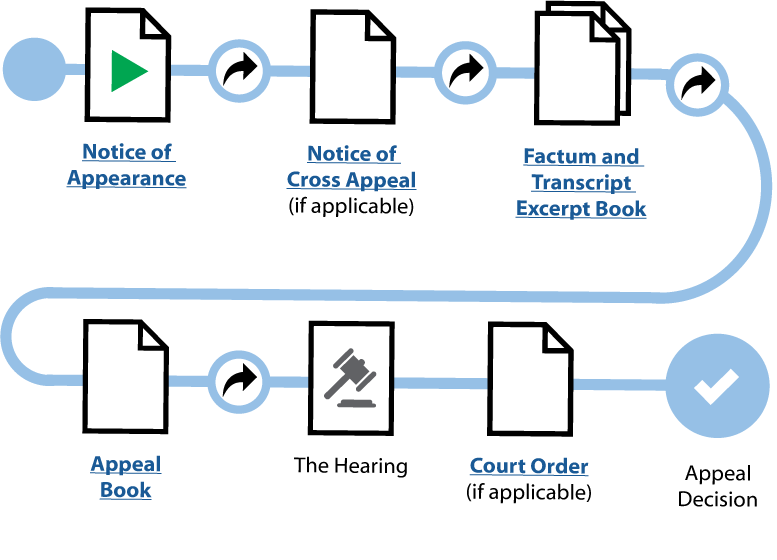
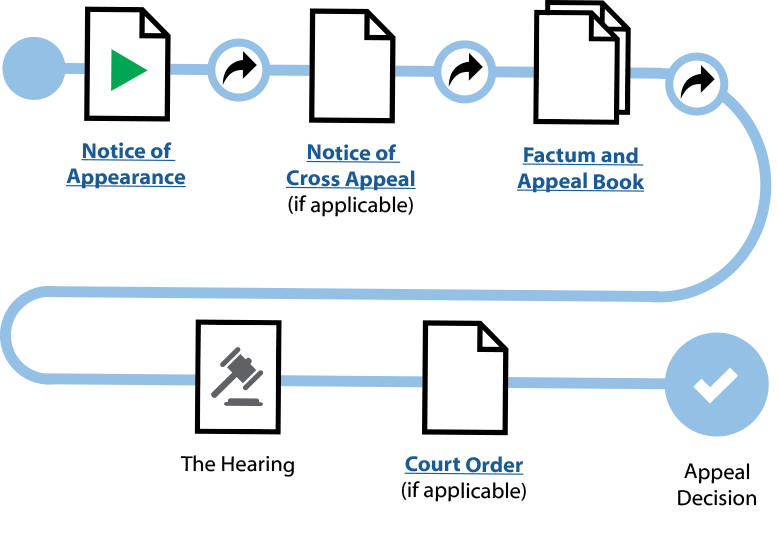
Minor changes to Respondent popups
- removed dead code
- added replacement journeymap and icon images from Lada
- added noticeType prop to appearance popup dependent on which "Appearance" link is clicked.
- other fixes as noted in the ticket, for example correct links, removed vertical line, etc.

diff --git a/src/components/infopopups/RespondentFactumPopup.js b/src/components/infopopups/RespondentFactumPopup.js
@@ -31,10 +31,9 @@ class RespondentFactumPopup extends Component {
             sectionHeading: "The Factum and Appeal Book",
             iconSrc: "/icons/icon-share.svg",
             iconClass: "info-modal-icon",
-            deadlinePhrase: {first: "You have  ", last: " to file and serve your documents."},
+            deadlinePhrase: {startWith: "You have  ", endWith: " to file and serve your documents."},
             deadline: " 30 days ",
             lineHeight: '275px',
-            last: false,
             contentMap: contentMap
         }, {
             expandable: true,
@@ -42,7 +41,6 @@ class RespondentFactumPopup extends Component {
             iconSrc :"icons/icon-info.svg",
             iconClass: "info-modal-icon",
             lineHeight: '60px',
-            last: false,
             content: ["If you are served with the appellant's Transcript Extract Book, you DO NOT have to respond to this document.  This" +
             " document is for your awareness only."]
         }, {
@@ -51,7 +49,6 @@ class RespondentFactumPopup extends Component {
             iconSrc :"icons/icon-info.svg",
             iconClass: "info-modal-icon",
             lineHeight: '60px',
-            last: false,
             content: ["If you are served with the appellant's Certificate of Readiness, you DO NOT have to respond to this document.  This" +
             " document is for your awareness only."]
         }, {
@@ -60,19 +57,19 @@ class RespondentFactumPopup extends Component {
             iconSrc :"icons/icon-info.svg",
             iconClass: "info-modal-icon",
             lineHeight: '60px',
-            last: false,
             content: ["If you are served with the appellant's Reply to Your Factum, you DO NOT have to respond to this document.  This" +
             " document is for your awareness only."]
         }, {
             expandable: true,
             sectionHeading: "A Notice of Hearing",
-            iconSrc :"icons/icon-clock.svg",
-            iconClass: "info-modal-clock",
+            iconSrc :"icons/icon-calendar.svg",
+            iconClass: "info-modal-calendar",
             lineHeight: '121px',
-            last: false,
             content: ["You should be served a Notice of Hearing from the appellant, which will tell you the date and length of your hearing." +
-            "  However, if you were the one who submitted the Certificate of readiness, please click the link for more information",
-                {URL: "https://www.courtofappealbc.ca/appellant-guidebook/2.12-schedule-the-appeal-for-hearing?ct=t(step-index-link)", URLName: "Schedule the appeal for hearing"}]
+            "  However, if you were the one who submitted the Certificate of Readiness, please click the link for more information",
+                {
+                    URL: "https://www.courtofappealbc.ca/respondent-guidebook/2.3-schedule-the-appeal-for-hearing?ct=t(step-index-link)",
+                    URLName: "Schedule the appeal for hearing"}]
         }]
     }
 

diff --git a/src/components/infopopups/AppellantHearingPopup.js b/src/components/infopopups/AppellantHearingPopup.js
@@ -1,30 +1,30 @@
 import React, { Component } from 'react';
 import Help from "./common/Help";
 
-class CourtOrderPopup extends Component {
+class AppellantHearingPopup extends Component {
 
     constructor(props) {
         super(props);
 
         let content = [
             {
-                URLName: "How will I find out about my judgement?",
-                URL: "https://www.courtofappealbc.ca/respondent-guidebook/2.5-how-to-prepare-for-the-hearing?ct=t(sidebar-link)",
+                URLName: "How to prepare for your hearing?",
+                URL: "https://www.courtofappealbc.ca/appellant-guidebook/2.4-preparing-an-appeal-record?ct=t(step-index-link)",
             },
             {
-                URLName: "Who is responsible for paying for the hearing?",
-                URL: "https://www.courtofappealbc.ca/respondent-guidebook/2.6-what-happens-at-the-hearing?ct=t(sidebar-link)"
+                URLName: "What will happen at your hearing?",
+                URL: "https://www.courtofappealbc.ca/appellant-guidebook/2.5-obtain-and-file-a-transcript-if-necessary?ct=t(step-index-link)"
             },
             {
-                URLName: "How do I prepare my court order?",
-                URL: "https://www.courtofappealbc.ca/respondent-guidebook/step-3-after-hearing?ct=t(sidebar-link)"
+                URLName: "What to expect after your hearing?",
+                URL: "https://www.courtofappealbc.ca/appellant-guidebook/3.1-making-chambers-applications?ct=t(step-index-link)"
             }
         ];
 
         this.sections = [{
             expandable: false,
             expanded: true,
-            sectionHeading: "For more information about the court order process, click the topics below: ",
+            sectionHeading: "For more information about the hearing process, click the topics below: ",
             iconSrc: "/icons/icon-info.svg",
             iconClass: "info-modal-icon",
             deadline: null,
@@ -39,7 +39,7 @@ class CourtOrderPopup extends Component {
             <div id="info-modal" className="modal" style={{display: 'block'}} >
                 <div className="info-modal-title ">
                     <span id="close-modal" onClick={this.props.close}>&times;</span>
-                    Court Order
+                    Your Hearing
                 </div>
                 <div className="info-modal-content">
                     {this.props.getSections(this.sections)}
@@ -52,4 +52,4 @@ class CourtOrderPopup extends Component {
         );
     }
 
-} export default CourtOrderPopup;
+} export default AppellantHearingPopup;

diff --git a/src/components/Journey.js b/src/components/Journey.js
@@ -118,10 +118,9 @@ class Journey extends Component {
                 mapProps: [
                     {coords: "75,10,180,200", function: "appearance", alt: "info about filing a notice of appearance"},
                     {coords: "250,10,370,200", function: "crossappeal", alt: "info about the cross appeal"},
-                    {coords: "450,10,565,200", function: "respondentfactum", alt: "info about the factum and appeal book"},
-                    {coords: "75,270,180,420", function: "respondentfactum", alt: "info about the factum and the appeal book"},
-                    {coords: "260,270,370,400", function: 'hearing', alt: "info about the hearing"},
-                    {coords: "395,270,520,420", function: 'courtorder', alt: "info about the court order process"}
+                    {coords: "450,10,565,200", function: "respondentfactum", alt: "info about the factum and about the appeal book"},
+                    {coords: "150,270,270,400", function: 'respondenthearing', alt: "info about the hearing"},
+                    {coords: "345,270,460,420", function: 'courtorder', alt: "info about the court order process"}
                     ]
             }
         }, () => {
@@ -136,9 +135,9 @@ class Journey extends Component {
                 subtitleIndex: 1,
                 mapSrc: "/images/journeymap/journey-map_respondent-apply-for-leave-for-appeal.png",
                 mapProps: [
-                    {coords: "85,10,200,190", function: "appearance", alt: "e-file a notice of appearance"},
+                    {coords: "85,10,200,190", function: "leave-application-appearance", alt: "e-file a notice of appearance"},
                     {coords: "285,10,385,190", function: 'replybook', alt: "about the Reply Book"},
-                    {coords: "460,5,570,160", function: 'hearing', alt: "info about the hearing"}
+                    {coords: "460,5,570,160", function: 'respondenthearing', alt: "info about the hearing"}
                 ]
             }
         }, () => {

diff --git a/src/components/infopopups/RespondentHearingPopup.js b/src/components/infopopups/RespondentHearingPopup.js
@@ -1,23 +1,23 @@
 import React, { Component } from 'react';
 import Help from "./common/Help";
 
-class HearingPopup extends Component {
+class RespondentHearingPopup extends Component {
 
     constructor(props) {
         super(props);
 
         let content = [
             {
-                URLName: "How to prepare for your hearing?",
-                URL: "https://www.courtofappealbc.ca/appellant-guidebook/2.4-preparing-an-appeal-record?ct=t(step-index-link)",
+                URLName: "How do I prepare for my hearing?",
+                URL: "https://www.courtofappealbc.ca/respondent-guidebook/2.5-how-to-prepare-for-the-hearing?ct=t(sidebar-link)",
             },
             {
-                URLName: "What will happen at your hearing?",
-                URL: "https://www.courtofappealbc.ca/appellant-guidebook/2.5-obtain-and-file-a-transcript-if-necessary?ct=t(step-index-link)"
+                URLName: "What will happen at my hearing?",
+                URL: "https://www.courtofappealbc.ca/respondent-guidebook/2.6-what-happens-at-the-hearing?ct=t(sidebar-link)"
             },
             {
-                URLName: "What to expect after your hearing?",
-                URL: "https://www.courtofappealbc.ca/appellant-guidebook/3.1-making-chambers-applications?ct=t(step-index-link)"
+                URLName: "What can I expect after my hearing?",
+                URL: "https://www.courtofappealbc.ca/respondent-guidebook/step-3-after-hearing?ct=t(step-index-link)"
             }
         ];
 
@@ -30,7 +30,6 @@ class HearingPopup extends Component {
             deadline: null,
             deadlinePhrase: null,
             lineHeight: null,
-            last: true,
             content: content
         }]
     }
@@ -53,4 +52,4 @@ class HearingPopup extends Component {
         );
     }
 
-} export default HearingPopup;
+} export default RespondentHearingPopup;

diff --git a/src/components/infopopups/common/InfoPopup.js b/src/components/infopopups/common/InfoPopup.js
@@ -3,7 +3,7 @@ import './infopopup.css';
 import InfoPopupSection from './InfoPopupSection';
 import AppellantFactumPopup from "../AppellantFactumPopup";
 import ReplyBookPopup from "../ReplyBookPopup";
-import HearingPopup from "../HearingPopup";
+import RespondentHearingPopup from "../RespondentHearingPopup";
 import CourtOrderPopup from "../CourtOrderPopup";
 import RespondentFactumPopup from "../RespondentFactumPopup";
 import CrossAppealPopup from "../CrossAppealPopup";
@@ -25,8 +25,8 @@ class InfoPopup extends Component {
                         close={this.props.close}
                         getSections={this.getSections.bind(this)}
                     />;
-                case 'hearing' :
-                    return <HearingPopup
+                case 'respondenthearing' :
+                    return <RespondentHearingPopup
                         close={this.props.close}
                         getSections={this.getSections.bind(this)}
                         />;
@@ -45,10 +45,17 @@ class InfoPopup extends Component {
                         close={this.props.close}
                         getSections={this.getSections.bind(this)}
                     />;
+                case 'leave-application-appearance' :
+                    return <AppearancePopup
+                        close={this.props.close}
+                        getSections={this.getSections.bind(this)}
+                        noticeType="Notice of Application for Leave to Appeal"
+                    />;
                 case 'appearance' :
                     return <AppearancePopup
                         close={this.props.close}
                         getSections={this.getSections.bind(this)}
+                        noticeType="Notice of Appeal"
                     />;
                 default :
                     return null;

diff --git a/src/components/infopopups/AppellantFactumPopup.js b/src/components/infopopups/AppellantFactumPopup.js
@@ -40,10 +40,9 @@ class AppellantFactumPopup extends Component {
             sectionHeading: "Have you filed an Appeal Record ?",
             iconSrc: "/icons/icon-share.svg",
             iconClass: "info-modal-icon",
-            deadlinePhrase: {first: "File a Factum and Appeal Book ", last: " of filing an Appeal Record."},
+            deadlinePhrase: {startWith: "File a Factum and Appeal Book ", endWith: " of filing an Appeal Record."},
             deadline: " within 30 days ",
             lineHeight: '252px',
-            last: false,
             expanded: true,
             contentMap: contentMap
         }, {
@@ -52,9 +51,8 @@ class AppellantFactumPopup extends Component {
             iconSrc :"/icons/icon-share.svg",
             iconClass: "info-modal-icon",
             deadline:" within 7 days ",
-            deadlinePhrase: {first: "File and serve a Reply ", last: " of receiving a Respondent's Factum."},
+            deadlinePhrase: {startWith: "File and serve a Reply ", endWith: " of receiving a Respondent's Factum."},
             lineHeight: '221px',
-            last: false,
             contentMap: contentMap2
         }, {
             expandable: true,
@@ -64,7 +62,6 @@ class AppellantFactumPopup extends Component {
             deadline: null,
             lineHeight: null,
             VLProps: null,
-            last: true,
             content: [" You may also be served a copy of the respondent’s Transcript Extract Book.  " +
             " This document is for your awareness only and you do not have to respond to it."]
         }]

diff --git a/src/components/infopopups/CrossAppealPopup.js b/src/components/infopopups/CrossAppealPopup.js
@@ -21,10 +21,9 @@ class CrossAppealPopup extends Component {
             sectionHeading: "The Notice of Appeal or the order granting leave to appeal",
             iconSrc: "/icons/icon-share.svg",
             iconClass: "info-modal-icon",
-            deadlinePhrase: {first: "You have  ", last: " to file and serve your documents, after receiving the last document."},
+            deadlinePhrase: {startWith: "You have  ", endWith: " to file and serve your documents, after receiving the endWith document."},
             deadline: " 15 days ",
             lineHeight: '252px',
-            last: false,
             contentMap: contentMap
         }, {
             expandable: true,
@@ -32,7 +31,6 @@ class CrossAppealPopup extends Component {
             iconSrc :"icons/icon-info.svg",
             iconClass: "info-modal-icon",
             lineHeight: '60px',
-            last: false,
             content: ["If you are served with a copy of the Appeal Record and Transcript, you DO NOT have to respond to this document.  This" +
             " document is for your awareness only."]
         }]

diff --git a/src/components/infopopups/AppearancePopup.js b/src/components/infopopups/AppearancePopup.js
@@ -19,12 +19,11 @@ class AppearancePopup extends Component {
         this.sections = [{
             expandable: false,
             expanded: true,
-            sectionHeading: "Were you served with a Notice of Appeal?",
+            sectionHeading: `Were you served with a ${this.props.noticeType}?`,
             iconSrc: "/icons/icon-share.svg",
             iconClass: "info-modal-icon",
-            deadlinePhrase: {first: "You have ", last: " to file and serve your documents."},
+            deadlinePhrase: {first: "You have ", last: " to file and serve your document."},
             deadline: " 10 days ",
-            lineHeight: '202px',
             last: false,
             contentMap: contentMap
         }]

diff --git a/src/components/infopopups/ReplyBookPopup.js b/src/components/infopopups/ReplyBookPopup.js
@@ -26,9 +26,8 @@ class ReplyBookPopup extends Component {
             iconSrc: "/icons/icon-share.svg",
             iconClass: "info-modal-icon",
             deadline: " at least 5 days ",
-            deadlinePhrase: { first: "File and then serve a Reply Book ", last: " before the hearing." },
+            deadlinePhrase: { startWith: "File and then serve a Reply Book ", endWith: " before the hearing." },
             lineHeight: null,
-            last: true,
             contentMap: contentMap
         }]
     }

diff --git a/src/components/infopopups/common/Deadline.js b/src/components/infopopups/common/Deadline.js
@@ -7,9 +7,9 @@ class Deadline extends Component {
             <div className="deadline">
                 <i className="fa fa-exclamation-triangle deadline-alert" />
 
-                {this.props.deadlinePhrase.first}
+                {this.props.deadlinePhrase.startWith}
                 <div className="deadline-quantity"> {this.props.deadline} </div>
-                {this.props.deadlinePhrase.last}
+                {this.props.deadlinePhrase.endWith}
 
             </div>
         );

diff --git a/src/components/infopopups/common/infopopup.css b/src/components/infopopups/common/infopopup.css
@@ -88,9 +88,8 @@
     padding: 12px;
 }
 
-.info-modal-clock {
-    padding: 6px;
-    margin-right: 5px;
+.info-modal-calendar {
+    margin-left: 3px;
 }
 
 .info-modal-divider {
@@ -101,7 +100,6 @@
 }
 
 .info-modal-ol {
-    font-weight: bolder;
     padding: 25px 0 10px 0;
 }
 
